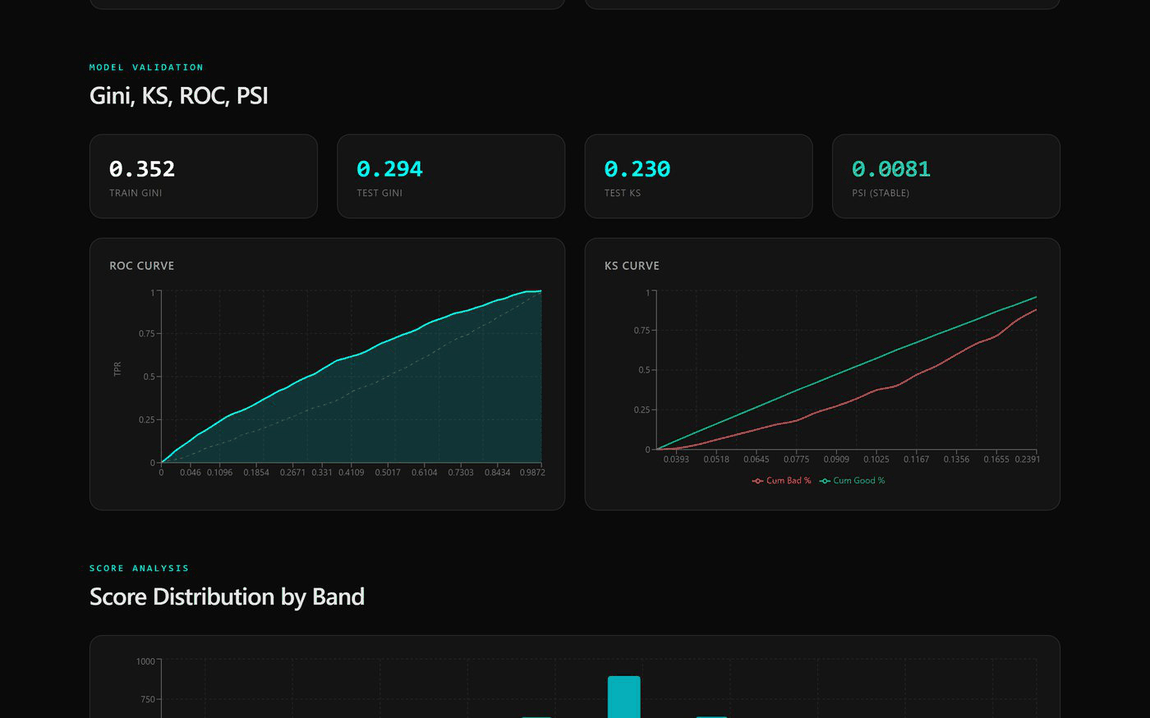
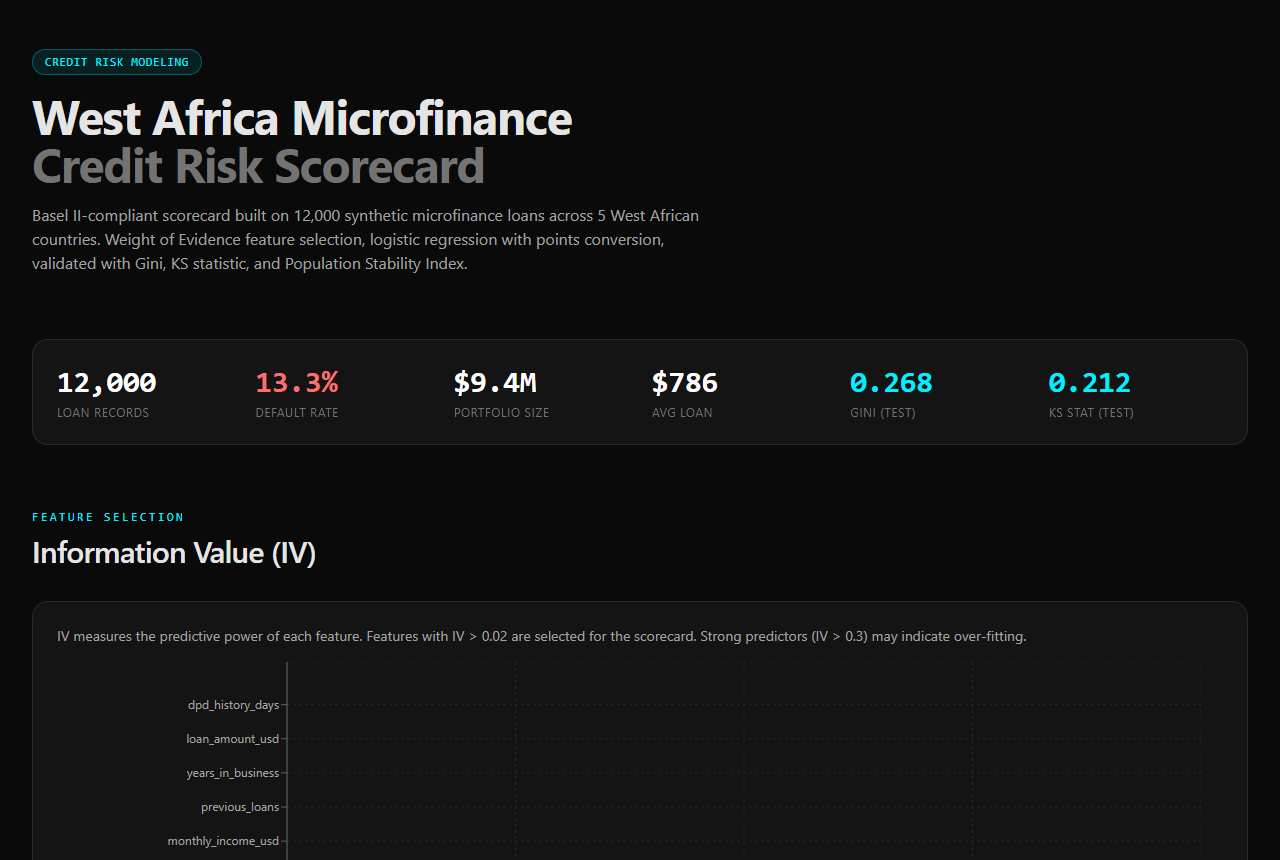
portfolio: four featured projects, chosen for impact, and fix a stale metric
Six projects carried the full-width treatment, which is part of why the page
ran long. It is four now, they lead the page, and the rest drop to the compact
index under 'More builds'.

The four, chosen for what they demonstrate rather than for recency:
  Gambia Legal Aid  retrieval that cites its section and refuses when it
                    cannot, which is the reliability claim the hero makes
  NOVA              CTGAN implemented from the paper, four-metric validation,
                    numbers reported honestly including the unflattering ones
  The Gambia 2074   independent Bayesian research that matched the UN inside 1%
  Credit Risk       regulated modelling, now validated on later vintages

Wingman moves to the compact list on request, along with FORGE, HireIQ, AYAT,
VANTAGE, Dalasi Pulse, BS Real Estate and ColdPilot.

Two things the reorder exposed. The Credit Risk row still advertised
'Gini 0.29 · KS 0.23 · PSI 0.008': the leaked-WoE, random-split figures. The
case studies and the PDF were corrected days ago and this line was missed,
which would have put a number on a featured row that the repo no longer
supports. Its figure was also a screenshot taken before the fix, showing 0.294
and 0.230, so it is re-shot from the live dashboard (which has redeployed and
now serves 0.268 and 0.212, labelled TEST) and the caption matched to it.

Gambia Legal Aid's description was two sentences written when it sat mid-page.
[…]

diff --git a/lib/projects.ts b/lib/projects.ts
@@ -42,34 +42,19 @@ export interface Project {
 
 export const PROJECTS: Project[] = [
   {
-    slug: "gambia-population-projection",
-    figure: { src: "/figures/gambia-2074-projection.png", alt: "Cohort-component projection to 2074: population path, age structure, and dependency ratios." },
-    title: "The Gambia 2074",
-    tagline: "An independent population forecast for The Gambia, out to 2074",
+    slug: "gambia-legal-aid",
+    figure: { src: "/figures/legal-aid.png", alt: "An answer with its statute section cited, so the reader can check it." },
+    title: "Gambia Legal Aid",
+    tagline: "RAG chatbot for Gambian law",
     description:
-      "A research project I took on myself. The Gambia has no working death-registration system, so its future population is mostly guesswork, and the only real numbers come from the UN. Those were locked in before the country ran its first digital census in 2024, so I built my own projection to check them. It uses the Lee-Carter mortality model, the same one the UN relies on, in three versions that get steadily more careful. First the plain version, then a Bayesian one fitted with PyMC, then a coherent one that ties The Gambia to its West-African neighbours so the forecast stays sensible. All three feed a cohort-component model that I tested against the UN's own projection first, and matched to within 1 percent. My answer comes out around 4.66 million people by 2074, somewhere between 4.35 and 4.98 million. That sits about 0.7 million under the UN, because the new census shows they have been overcounting by roughly 13 percent. The work also catches the demographic dividend opening up for the country, where the total dependency ratio drops from 77 to 49 even as old-age dependency triples, from 5 to 18 per 100 working-age adults. Every input is public data, so the method can be reproduced end to end from the write-up.",
-    tech: ["Python", "PyMC", "MCMC", "NumPy", "Pandas", "Matplotlib"],
-    github: "https://github.com/Balisa50/gambia-population-projection",
-    githubRepo: "Balisa50/gambia-population-projection",
+      "A question-answering system over 13 Gambian Acts of Parliament, built so that being wrong is harder than saying nothing. Every answer names the section it came from. A validator checks each citation against the retrieved text before the answer ships: invented section numbers are stripped, quotation marks are only allowed around text that appears verbatim in the statute, and a claim attached to the wrong section is caught by comparing it against that section title. When the legislation store is unreachable it refuses outright rather than answering from the model's memory, and the provider chain falls through to a second model so a retired model id degrades the answer instead of ending the conversation.",
+    tech: ["Python", "RAG", "Vector search", "FastAPI", "Next.js"],
+    github: "https://github.com/Balisa50/gamba-legal-aid",
+    githubRepo: "Balisa50/gamba-legal-aid",
     codePrivate: true,
-    articleUrl: "https://balisa50.github.io/research/gambia-2074",
+    demo: "https://gambia-legal-aid-ab.vercel.app/",
     status: "live",
-    metric: "~4.66M by 2074 (4.35 to 4.98M), within 1% of the UN",
-    accent: "violet",
-    fallbackStars: 0,
-    featured: true
-  },
-  {
-    slug: "wingman",
-    figure: { src: "/figures/wingman.png", alt: "The reply composer: pick who you are talking to, drop the chat in, get three tonally distinct replies." },
-    title: "Wingman",
-    tagline: "An AI texting coach that reads the chat you're in and replies like a human, in your voice",
-    description:
-      "Screenshot a conversation, or let the browser extension read it straight off WhatsApp Web, Instagram, X, LinkedIn, Messenger, Telegram or Discord, and Wingman reads the situation itself then hands you three tonally distinct, sendable replies: playful, direct, and one genuinely sincere. The core artifact is the system prompt, engineered like a spec: an explicit kill-list of AI fingerprints the model must hunt out of its own drafts, a register map spanning flirting, grief, conflict, professional and family conversation, orientation pinning so it never answers your own message as the other person's, and a hard self-check. Named chats remember the person and the whole thread, every reply you send teaches it your texting voice, and a per-chat context (dating, work, boss, making up) drives tone and length, all in localStorage with no account. One server route holds the free NVIDIA key for both the web app and the Manifest V3 extension, whose ten per-site DOM adapters sit in front of a generic fallback for anything else.",
-    tech: ["Next.js 16", "TypeScript", "NVIDIA NIM", "Chrome Extension (MV3)", "Vision OCR"],
-    demo: "https://trywingman.vercel.app",
-    status: "live",
-    metric: "Reads 10 sites live · 3 real tones · sounds human, not AI",
+    metric: "Cites the section, or refuses. 13 Acts, validated before it answers",
     accent: "cyan",
     fallbackStars: 0,
     featured: true
@@ -92,6 +77,55 @@ export const PROJECTS: Project[] = [
     featured: true
   },
   {
+    slug: "gambia-population-projection",
+    figure: { src: "/figures/gambia-2074-projection.png", alt: "Cohort-component projection to 2074: population path, age structure, and dependency ratios." },
+    title: "The Gambia 2074",
+    tagline: "An independent population forecast for The Gambia, out to 2074",
+    description:
+      "A research project I took on myself. The Gambia has no working death-registration system, so its future population is mostly guesswork, and the only real numbers come from the UN. Those were locked in before the country ran its first digital census in 2024, so I built my own projection to check them. It uses the Lee-Carter mortality model, the same one the UN relies on, in three versions that get steadily more careful. First the plain version, then a Bayesian one fitted with PyMC, then a coherent one that ties The Gambia to its West-African neighbours so the forecast stays sensible. All three feed a cohort-component model that I tested against the UN's own projection first, and matched to within 1 percent. My answer comes out around 4.66 million people by 2074, somewhere between 4.35 and 4.98 million. That sits about 0.7 million under the UN, because the new census shows they have been overcounting by roughly 13 percent. The work also catches the demographic dividend opening up for the country, where the total dependency ratio drops from 77 to 49 even as old-age dependency triples, from 5 to 18 per 100 working-age adults. Every input is public data, so the method can be reproduced end to end from the write-up.",
+    tech: ["Python", "PyMC", "MCMC", "NumPy", "Pandas", "Matplotlib"],
+    github: "https://github.com/Balisa50/gambia-population-projection",
+    githubRepo: "Balisa50/gambia-population-projection",
+    codePrivate: true,
+    articleUrl: "https://balisa50.github.io/research/gambia-2074",
+    status: "live",
+    metric: "~4.66M by 2074 (4.35 to 4.98M), within 1% of the UN",
+    accent: "violet",
+    fallbackStars: 0,
+    featured: true
+  },
+  {
+    slug: "credit-risk-scorecard",
+    figure: { src: "/figures/credit-discrimination.png", alt: "The scorecard dashboard: portfolio summary with Gini and KS reported on the test book, above the Information Value table that drives feature selection." },
+    title: "Credit Risk Scorecard",
+    tagline: "Basel II scorecard for West African microfinance",
+    description:
+      "Full credit scoring pipeline: WoE/IV feature selection, logistic regression with Basel II points conversion, Gini/KS/PSI validation, and multi-scenario stress testing. Built on 12,000 synthetic West African microfinance loans.",
+    tech: ["Python", "scikit-learn", "Pandas", "Next.js", "Recharts"],
+    github: "https://github.com/Balisa50/credit-risk-scorecard",
+    githubRepo: "Balisa50/credit-risk-scorecard",
+    demo: "https://credit-risk-ab.vercel.app/",
+    status: "live",
+    metric: "Gini 0.27 · KS 0.21 on a later-vintage holdout · PSI 0.002 while defaults rose a third",
+    accent: "pink",
+    fallbackStars: 0,
+    featured: true
+  },
+  {
+    slug: "wingman",
+    figure: { src: "/figures/wingman.png", alt: "The reply composer: pick who you are talking to, drop the chat in, get three tonally distinct replies." },
+    title: "Wingman",
+    tagline: "An AI texting coach that reads the chat you're in and replies like a human, in your voice",
+    description:
+      "Screenshot a conversation, or let the browser extension read it straight off WhatsApp Web, Instagram, X, LinkedIn, Messenger, Telegram or Discord, and Wingman reads the situation itself then hands you three tonally distinct, sendable replies: playful, direct, and one genuinely sincere. The core artifact is the system prompt, engineered like a spec: an explicit kill-list of AI fingerprints the model must hunt out of its own drafts, a register map spanning flirting, grief, conflict, professional and family conversation, orientation pinning so it never answers your own message as the other person's, and a hard self-check. Named chats remember the person and the whole thread, every reply you send teaches it your texting voice, and a per-chat context (dating, work, boss, making up) drives tone and length, all in localStorage with no account. One server route holds the free NVIDIA key for both the web app and the Manifest V3 extension, whose ten per-site DOM adapters sit in front of a generic fallback for anything else.",
+    tech: ["Next.js 16", "TypeScript", "NVIDIA NIM", "Chrome Extension (MV3)", "Vision OCR"],
+    demo: "https://trywingman.vercel.app",
+    status: "live",
+    metric: "Reads 10 sites live · 3 real tones · sounds human, not AI",
+    accent: "cyan",
+    fallbackStars: 0
+  },
+  {
     slug: "forge",
     figure: { src: "/figures/forge.png", alt: "The FORGE landing page: commit to a schedule, then prove the work with real commits and a deployed URL." },
     title: "FORGE",
@@ -106,8 +140,7 @@ export const PROJECTS: Project[] = [
     progress: 90,
     metric: "13 roadmaps · 385 video resources · 1:1 mentors · proof-of-work",
     accent: "cyan",
-    fallbackStars: 0,
-    featured: true
+    fallbackStars: 0
   },
   {
     slug: "hireiq",
@@ -125,8 +158,7 @@ export const PROJECTS: Project[] = [
     launchLabel: "95%, shipping soon",
     metric: "AI interviews · ranked scoring · PDF reports",
     accent: "violet",
-    fallbackStars: 0,
-    featured: true
+    fallbackStars: 0
   },
   {
     slug: "ayat",
@@ -142,8 +174,7 @@ export const PROJECTS: Project[] = [
     status: "live",
     metric: "6,236 verses reprojected in 22ms, fully client-side",
     accent: "violet",
-    fallbackStars: 0,
-    featured: true
+    fallbackStars: 0
   },
   {
     slug: "vantage",
@@ -158,23 +189,6 @@ export const PROJECTS: Project[] = [
     demo: "https://vantage-ab.vercel.app/",
     status: "live",
     metric: "Live news feed with AI scoring",
-    accent: "cyan",
-    fallbackStars: 0
-  },
-  {
-    slug: "gambia-legal-aid",
-    figure: { src: "/figures/legal-aid.png", alt: "An answer with its statute section cited, so the reader can check it." },
-    title: "Gambia Legal Aid",
-    tagline: "RAG chatbot for Gambian law",
-    description:
-      "Retrieval-augmented chatbot answering legal questions grounded in Gambian statutes. Has a hallucination-guard pipeline that rejects answers without citation anchors in the retrieved context.",
-    tech: ["Python", "RAG", "Vector search", "FastAPI", "Next.js"],
-    github: "https://github.com/Balisa50/gamba-legal-aid",
-    githubRepo: "Balisa50/gamba-legal-aid",
-    codePrivate: true,
-    demo: "https://gambia-legal-aid-ab.vercel.app/",
-    status: "live",
-    metric: "Hallucination-guarded answers",
     accent: "cyan",
     fallbackStars: 0
   },
@@ -226,22 +240,6 @@ export const PROJECTS: Project[] = [
     progress: 80,
     launchLabel: "80%, v2 coming",
     metric: "Hunter · Seeker · 3 autonomy levels",
-    accent: "pink",
-    fallbackStars: 0
-  },
-  {
-    slug: "credit-risk-scorecard",
-    figure: { src: "/figures/credit-discrimination.png", alt: "Gini, KS and ROC for the scorecard, measured on a later-vintage holdout." },
-    title: "Credit Risk Scorecard",
-    tagline: "Basel II scorecard for West African microfinance",
-    description:
-      "Full credit scoring pipeline: WoE/IV feature selection, logistic regression with Basel II points conversion, Gini/KS/PSI validation, and multi-scenario stress testing. Built on 12,000 synthetic West African microfinance loans.",
-    tech: ["Python", "scikit-learn", "Pandas", "Next.js", "Recharts"],
-    github: "https://github.com/Balisa50/credit-risk-scorecard",
-    githubRepo: "Balisa50/credit-risk-scorecard",
-    demo: "https://credit-risk-ab.vercel.app/",
-    status: "live",
-    metric: "Gini 0.29 · KS 0.23 · PSI 0.008",
     accent: "pink",
     fallbackStars: 0
   },
